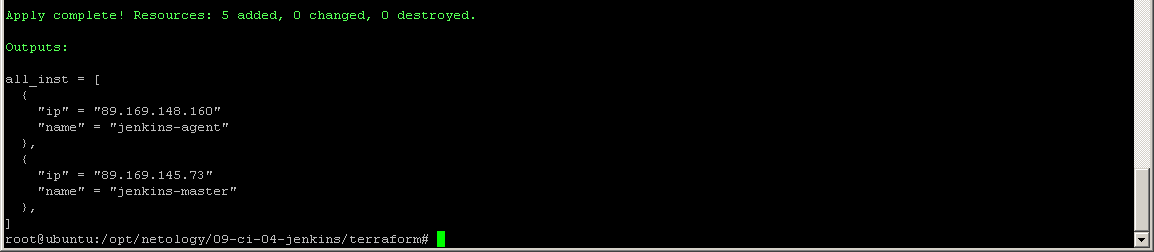
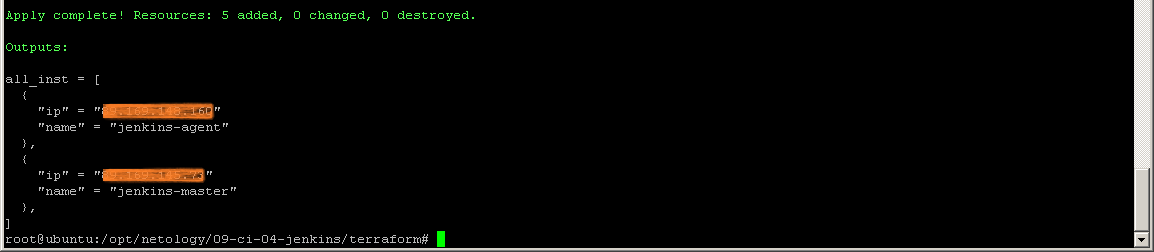
Add stage 0

Changed region(s): [[0.0624, 0.3889, 0.1872, 0.5], [0.0624, 0.6667, 0.1872, 0.75]]

diff --git a/README.md b/README.md
@@ -21,7 +21,7 @@ ansible-playbook -i ./inventory/hosts.yml site.yml
 
 ![AnsiblePlaybook](./pictures/0_Ansible_Playbook.png)
 
-В браузере http://89.169.145.73:8080/
+В браузере http://xxx.xxx.xxx.xxx:8080/
 
 ![AnsiblePlaybook](./pictures/0_Jenkins_Start.png)
 
@@ -29,7 +29,7 @@ ansible-playbook -i ./inventory/hosts.yml site.yml
 
 Для разблокировки Jenkins, в поле вставляем содержимое файла по указанному пути в виртуальной машины jenkins-master-01:
 ```sh
-ssh 89.169.145.73
+ssh xxx.xxx.xxx.xxx
 sudo -i
 cat /var/lib/jenkins/secrets/initialAdminPassword
 ```
